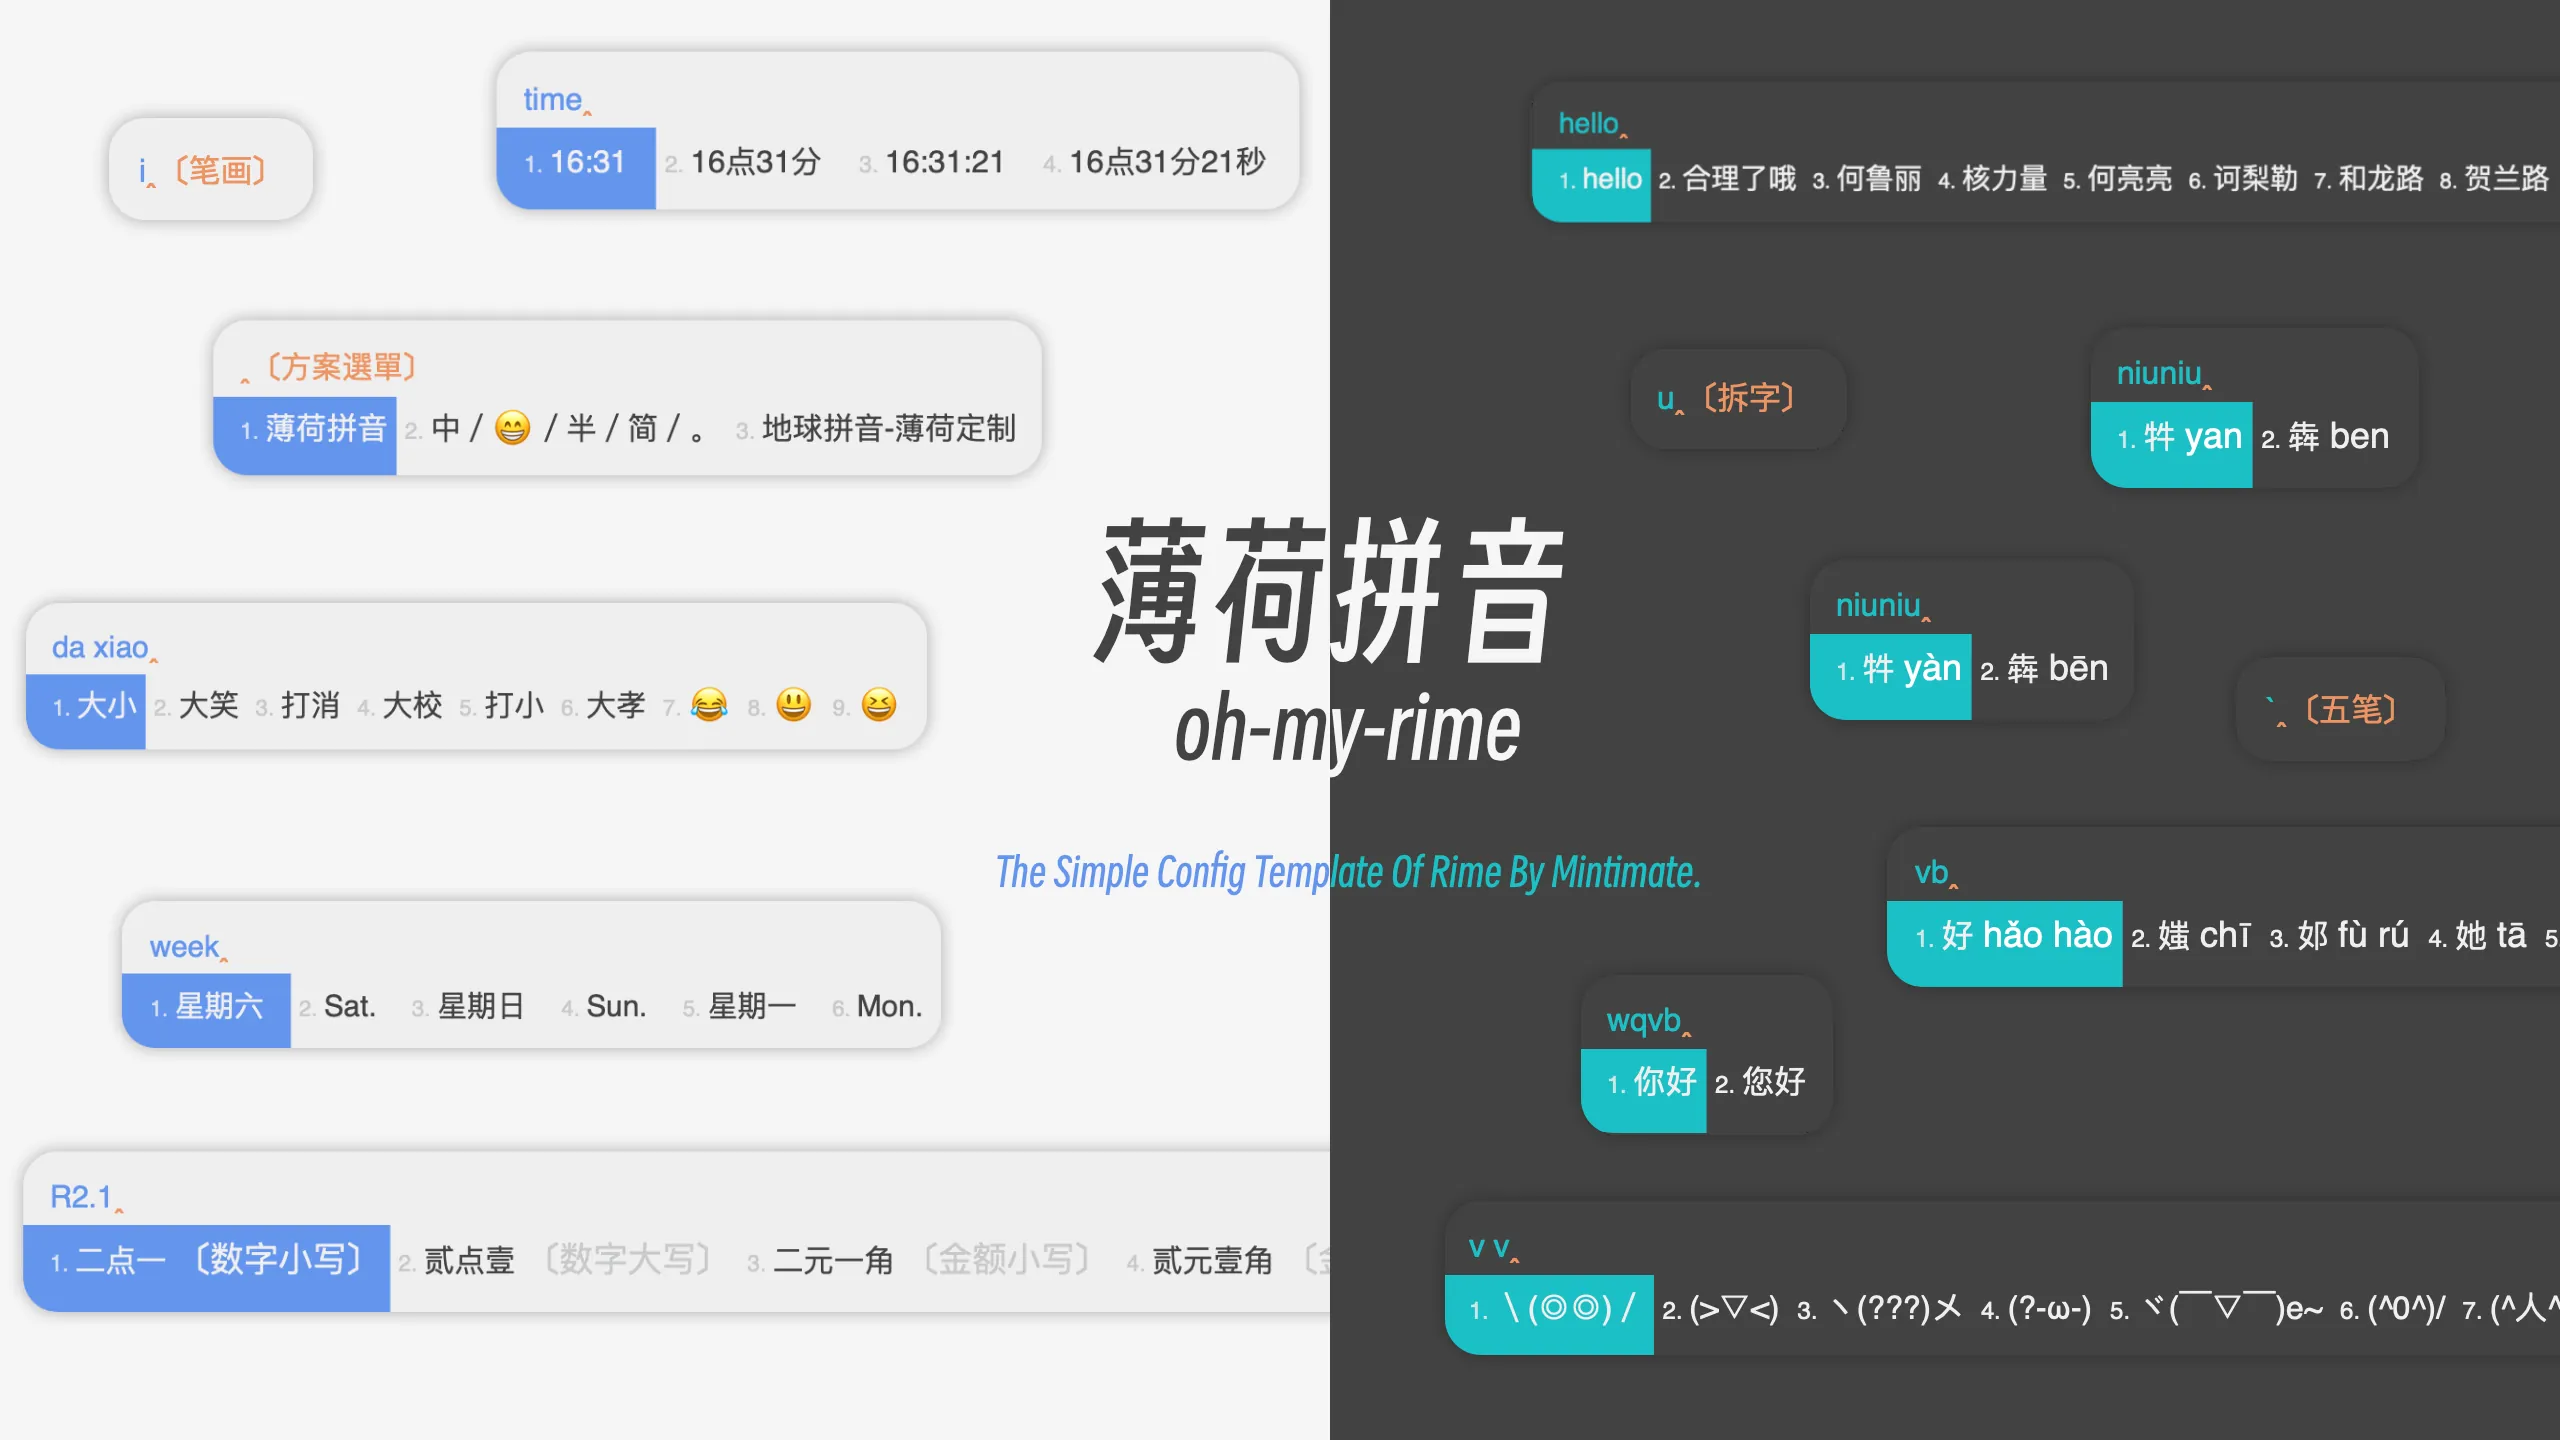
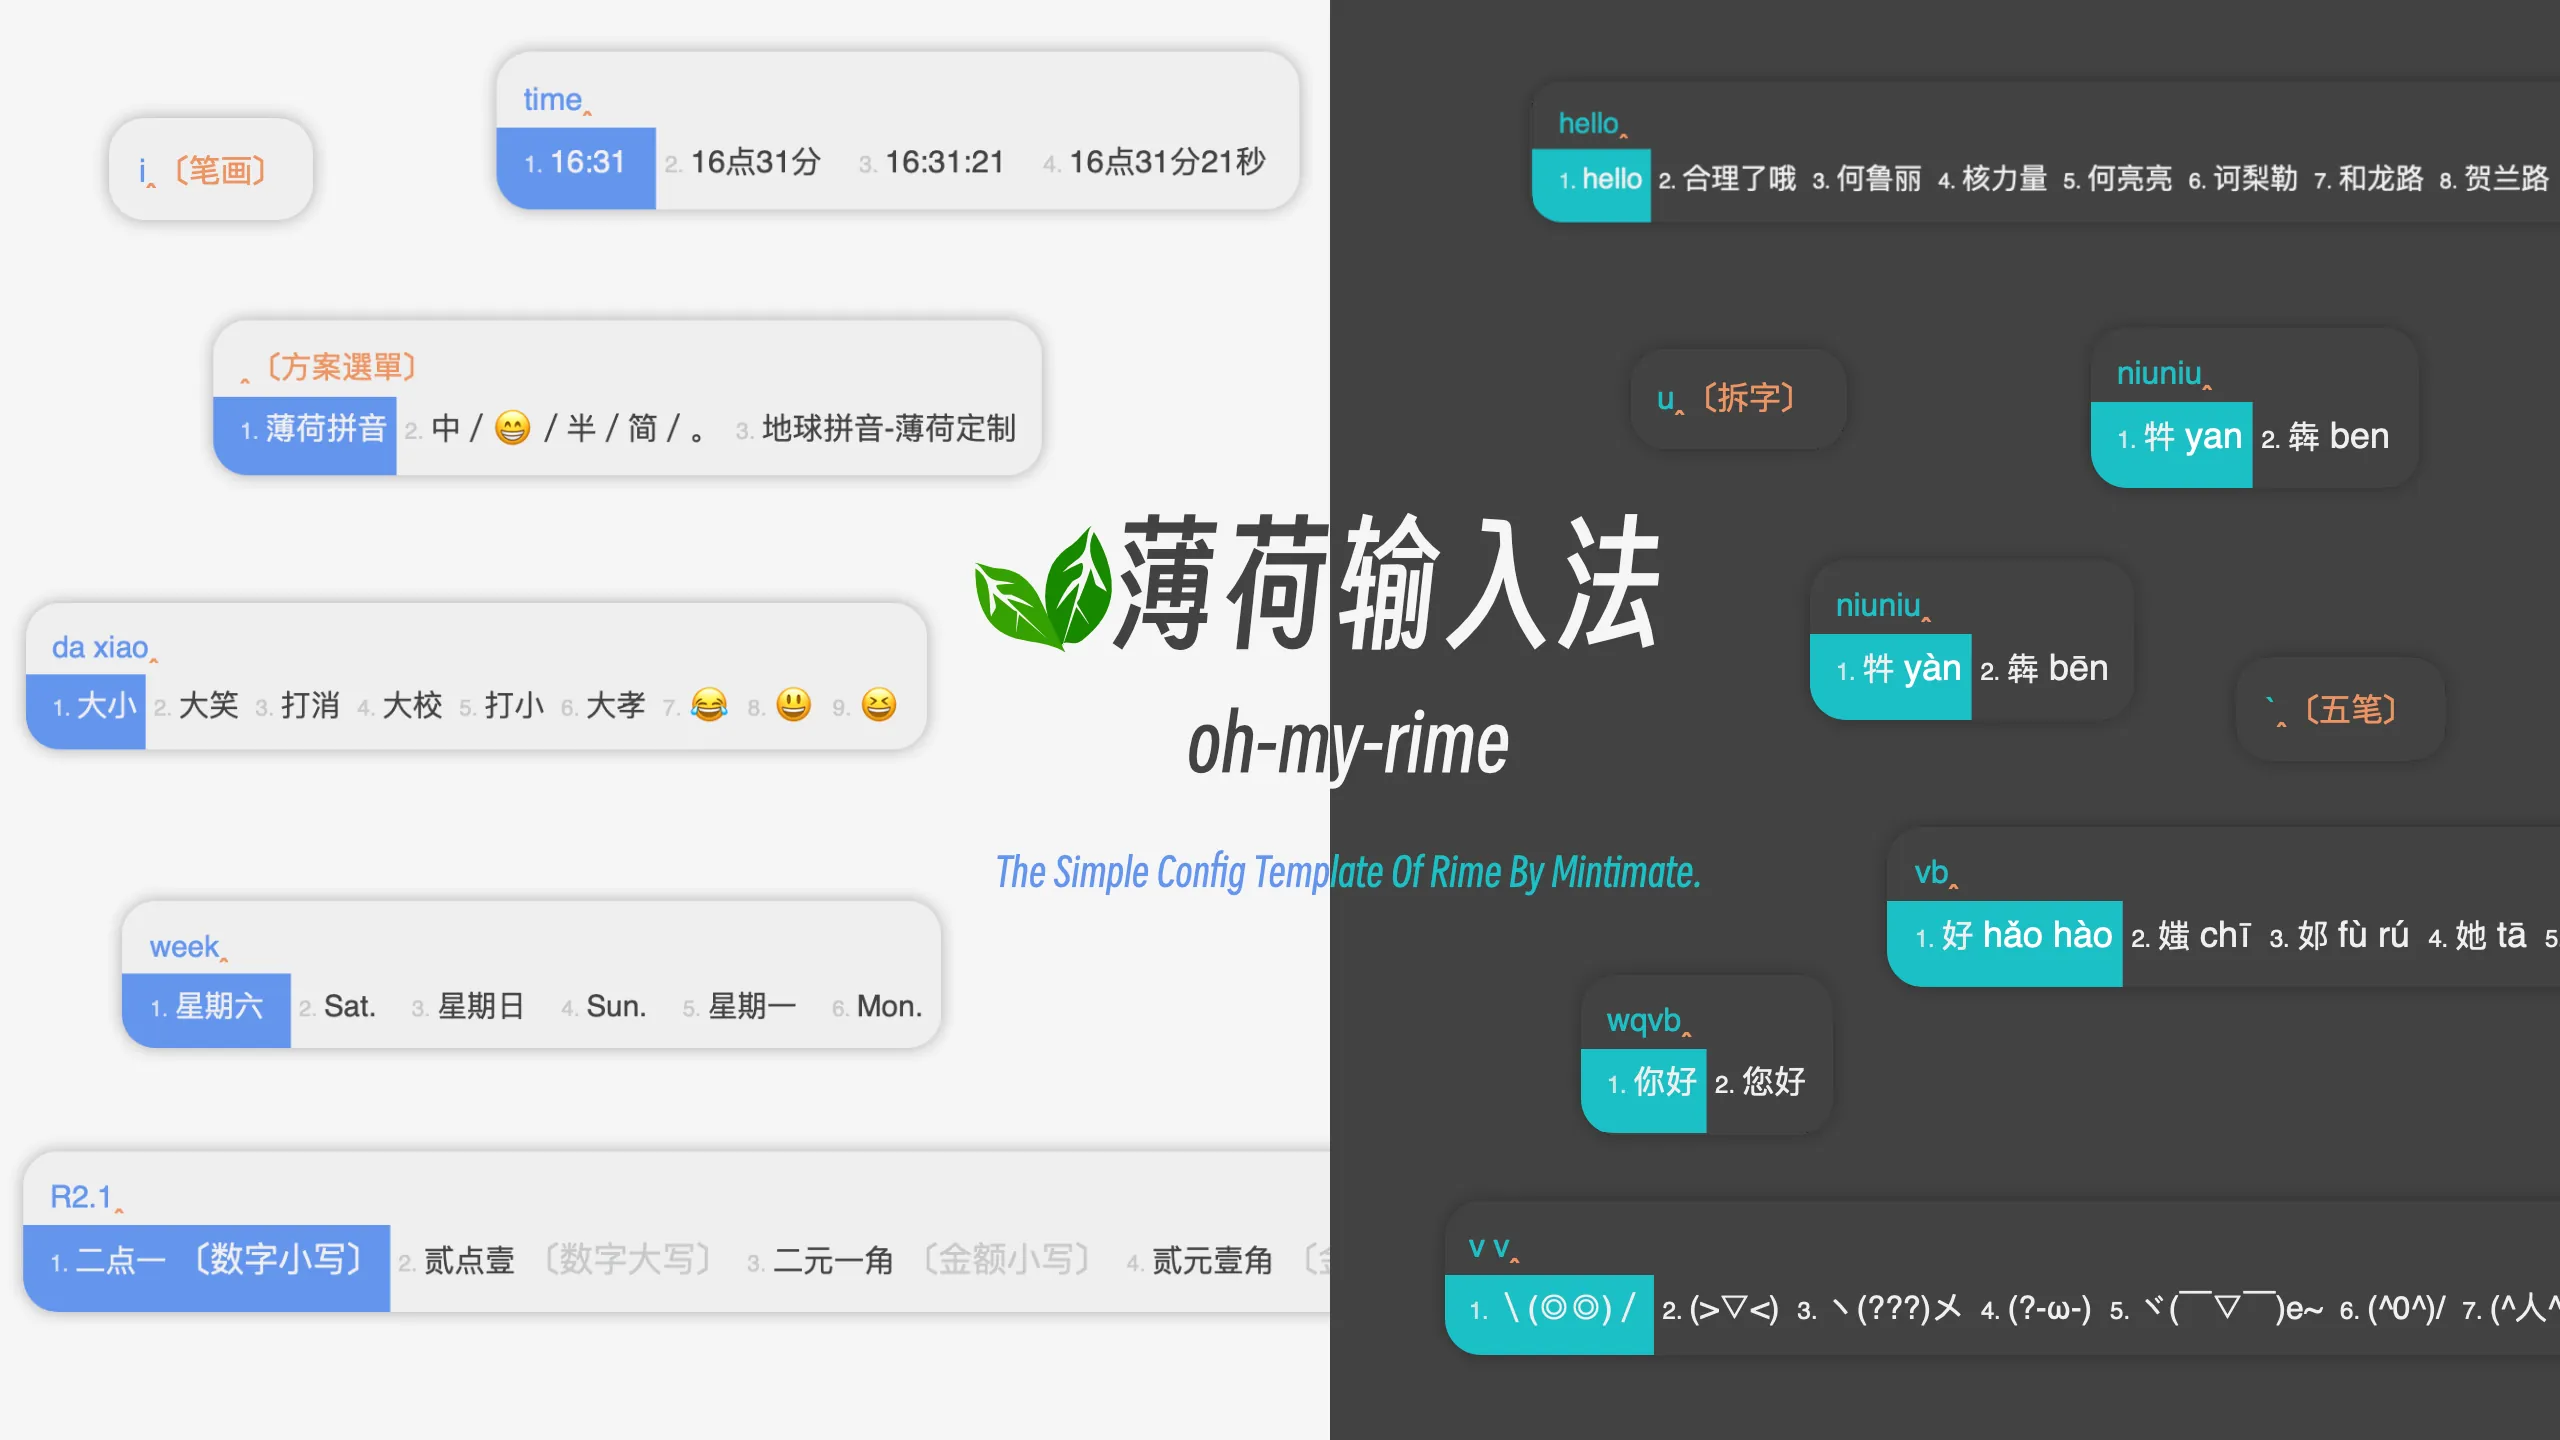
feat(Demo): 修正Demo内中文描述
- 修正Demo内的中文描述
- 修改一些图片

Changed region(s): [[0.375, 0.3438, 0.6562, 0.5625]]

diff --git a/.vitepress/theme/custom.css b/.vitepress/theme/custom.css
@@ -24,3 +24,8 @@
 .wwads-text{
     color: var(--vp-c-text-1)!important;
 }
+
+/*去除底部的下划线*/
+.VPFooter a{
+    text-decoration-line: unset!important;
+}

diff --git a/zh/demo/index.md b/zh/demo/index.md
@@ -1,0 +1,57 @@
+---
+layout: doc
+title: 效果演示
+head:
+  - - meta
+    - name: keywords
+      content: 薄荷拼音,薄荷拼音效果展示,使用展示,薄荷拼音外观,薄荷拼音预览
+description: 基于rime输入法框架，预览安装薄荷拼音后的效果、外观；以及在除了支持字典功能外，支持的特定功能和，如：Emoji、支持拆字反查输入、五笔反查输入、笔画反查输入等。
+aside: true
+---
+# 效果演示
+![效果简单展示](/image/demo/guide.webp)
+
+本章节将展示薄荷输入法的适配情况和使用的效果。
+
+> Tips: 之前本来叫『薄荷拼音』，后来适配了『98五笔』，感觉叫『薄荷输入法』比较合适✪ω✪
+
+Github仓库地址: [oh-my-rime: https://github.com/Mintimate/oh-my-rime](https://github.com/Mintimate/oh-my-rime)
+
+镜像仓库地址: [oh-my-rime: https://gitlab.mintimate.cn/Mintimate/oh-my-rime](https://gitlab.mintimate.cn/Mintimate/oh-my-rime)
+
+## 平台支持的情况
+支持Rime输入法框架的平台有很多，我们已经进行测试，可以良好使用的：
+- Windows: [小狼毫输入法: https://github.com/rime/weasel](https://github.com/rime/weasel)
+- macOS: [鼠须管: https://github.com/rime/weasel](https://github.com/rime/squirrel)
+- Linux: Linux上可以使用ibus框架和fcitx
+- iOS: [仓输入法(App Store)](https://apps.apple.com/cn/app/%E4%BB%93%E8%BE%93%E5%85%A5%E6%B3%95/id6446617683)
+
+理论上适配，但是我们未实际测试:
+- Android: [同文输入法: https://github.com/osfans/trime](https://github.com/osfans/trime)
+
+## 支持的输入方式
+目前支持两大类型的输入方式内，三种输入类型：
+- 全拼类
+  - 薄荷拼音: 招牌主打输入类型，支持各种反查、中英混合输入等，丰富多彩的全拼；
+  - 地球拼音薄荷定制: 基于地球拼音，追加一些定制，属于有薄荷拼音特点的地球拼音；
+- 笔画类
+  - 98五笔薄荷定制: 基于98五笔基础版本进行定制，满足五笔输入的需要；轻量版本的98五笔。
+
+## 支持的功能
+目前支持的功能，主要是:
+- 功能方面
+  - 支持亮色/暗色皮肤样式，在Win11和macOS上，可以根据系统进行切换；
+  - 中文输入法，支持繁体、简体；
+  - 支持中英混合输入；
+  - 支持Emoji表情和颜文字；
+  - 支持拆字(uu)反查输入、五笔(uw)反查输入、笔画(ui)反查输入；
+  - 支持输入日期、星期、时间和人民币大写
+- 词库得益于使用[雾凇拼音](https://github.com/iDvel/rime-ice)
+  - 《通用规范汉字表》
+  - 华宇野风系统词库
+  - 清华大学开源词库
+  - 《现代汉语常用词表》
+  - 《现代汉语词典》
+  - 《同义词词林》
+  - 《新华成语大词典》
+  - 腾讯词向量

diff --git a/zh/demo/reverseWords.md b/zh/demo/reverseWords.md
@@ -13,18 +13,18 @@ aside: true
 
 举个例子: 使用五笔查看当前拼音输入法下的词语。
 
-薄荷拼音内包含三个反查:
-- 拆字反查
-- 五笔反查
-- 笔画反查
+薄荷输入法内包含三个反查:
+- 拆字反查(uu)
+- 五笔反查(uw)
+- 笔画反查(ui)
+
+近期应该会适配拼音反查(up)；方便使用五笔的用户，在五笔输入发模式内，反查拼音。
 
 ## 拆字反查
-<u>个人觉得这应该是反查内最为实用的反查</u>；在薄荷拼音内，中文输入法模式下，使用`uw`进行激活拆字模式，后续输入的内容，将使用拆字字库进行解析。
+**个人觉得这应该是反查内最为实用的反查**；在薄荷输入法内，按下`uw`进行激活拆字模式，后续输入的内容，将使用拆字字库进行解析。
 
 举个例子: 键盘上输入`uuniuniuniu`，会被解析为`niu niu niu`的组合，也就是三个`牛`：`犇`。当然，两个`牛`也是有字的:
-![两个牛](/image/demo/ChaiNiu2.webp)
-![三个牛](/image/demo/ChaiNiu3.webp)
-
+![拆字反查](/image/demo/chaizi.webp)
 
 ## 五笔反查
 在薄荷拼音内，中文输入法模式下，使用`uw`进行激活五笔模式，后续输入的内容，将使用五笔进行解析。
